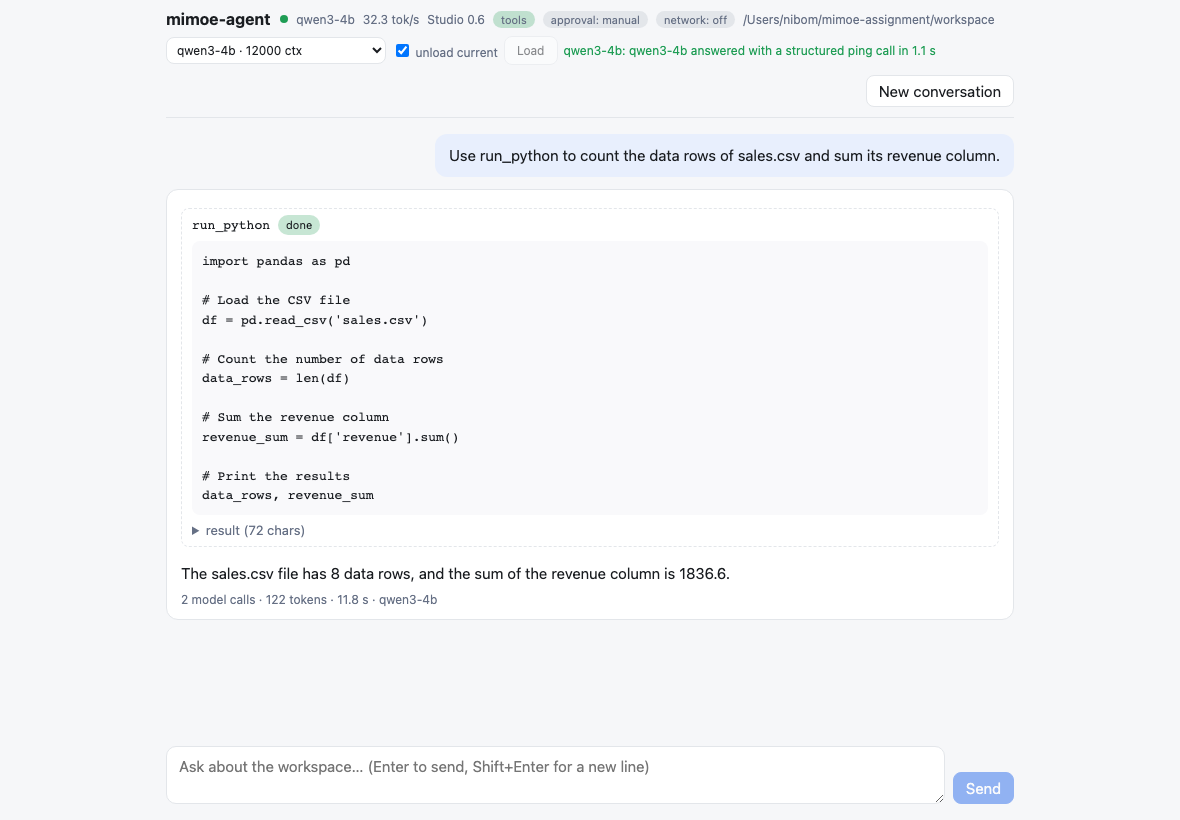
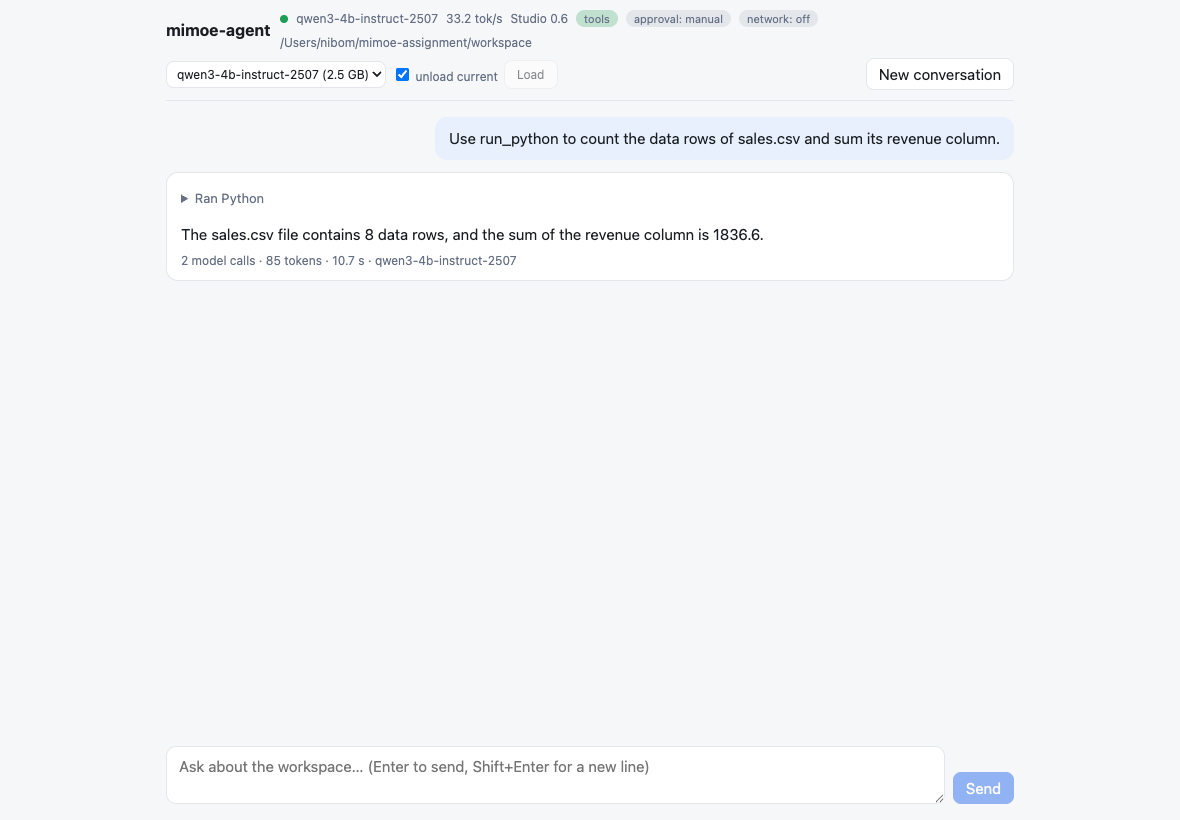
docs: screenshots and README text for the one-line tool steps and the arithmetic rule

diff --git a/README.md b/README.md
@@ -33,7 +33,9 @@ list), the agent's own tools never open a network connection, and the web server
 
 ![run_python asks for approval before the code runs](docs/img/web-approval-panel.png)
 
-![After Approve: the tool result, the answer and the stats for the turn](docs/img/web-approved-answer.png)
+![After Approve: the tool call as one line (click it for the code and its output), the answer and the stats for the turn](docs/img/web-approved-answer.png)
+
+![A failed tool call is one line too: the calculator refused a loop, so the agent ran Python instead and answered](docs/img/web-failed-step.png)
 
 ## Quickstart
 
@@ -128,7 +130,8 @@ and what is the total revenue?") qwen3-4b on a fresh session sometimes read the 
 call in every recorded run (CLI transcript 02, the browser session). It is also the prompt that
 shows the approval flow, which is the point of the demo.
 
-REPL commands: `/new` (fresh conversation), `/status`, `/verbose` (full tool results), `/model ID`
+REPL commands: `/new` (fresh conversation), `/status`, `/verbose` (full tool results, and the
+error of a failed call, which otherwise shows as one "failed, trying a different approach" line), `/model ID`
 (switch model), `/models`, `/help`, `/quit`. Ctrl-C during a turn cancels it at once (the answer
 stops and a running snippet is killed) and keeps the session. `--think` turns the model's reasoning
 on and shows it collapsed.
@@ -196,7 +199,7 @@ Two lines of LangGraph vocabulary, since `create_agent` compiles to a LangGraph 
 | React + Vite + TypeScript with the built bundle committed in `web/dist` | The reviewer needs no Node.js; the UI is about 750 lines with no UI kit, and the reducer, SSE parser and stream consumer have vitest tests. | Streamlit or Gradio: fast to start, but the per-turn tool cards, the approval panel with one decision per request, Stop and resume did not fit their request/rerun model. |
 | uv | One command installs Python 3.13 and the locked dependencies on macOS, Windows and Linux; `uv run mimoe-agent` is the whole quickstart. | pip or poetry: pip needs a Python 3.13 and a venv first; poetry is one more tool to install. |
 | Plain `@tool` functions, with pandas available to `run_python` | Eight ordinary functions whose docstrings are the descriptions the model reads; pandas because the model reaches for it every time and gets CSVs right (my csv-module fallback miscounted the header row). | RAG, a vector store or SQLite: the workspace is small, `read_file`/`search_files`/`run_python` answer everything, and an index is more setup, more dependencies and one more thing that can be stale. |
-| An in-process fake engine for tests (`httpx.MockTransport` injected into ChatOpenAI and the engine client) | It reproduces the quirks of both engine generations (inline `<think>`, `reasoning_content`, `tool_0` ids, the error bodies, the model store), so 705 tests run on CI without Studio; four live tests sit behind `MIMOE_LIVE=1`. | Recorded cassettes (VCR-style): brittle against streaming chunk boundaries, awkward to script a tool call followed by an answer, and tied to one engine version. |
+| An in-process fake engine for tests (`httpx.MockTransport` injected into ChatOpenAI and the engine client) | It reproduces the quirks of both engine generations (inline `<think>`, `reasoning_content`, `tool_0` ids, the error bodies, the model store), so 707 tests run on CI without Studio; five live tests sit behind `MIMOE_LIVE=1`. | Recorded cassettes (VCR-style): brittle against streaming chunk boundaries, awkward to script a tool call followed by an answer, and tied to one engine version. |
 | Python 3.13 as the floor | The workspace jail uses `ntpath.isreserved` (new in 3.13) and `Path.is_junction` (3.12) for Windows; uv installs 3.13 anyway. | Supporting 3.10 to 3.12 with fallbacks: more code paths to test on Windows for no benefit to the reviewer. |
 
 ## How the components connect
@@ -248,9 +251,10 @@ What each module does, in reading order:
   `/no_think` on 0.6 engines, neutralises a malformed tool call), `GuardrailMiddleware` (caps every
   tool result at 8 KB, turns a tool exception into an error message the model can read, marks a
   result that reports a failure, such as `ERROR: ...` or a snippet that exited non-zero, as failed
-  so both interfaces show it in red, shortens tool results from earlier turns to 400 characters in
-  the request only, resets the per-turn budget), `ModelCallLimitMiddleware(thread_limit=8)`, and `HumanInTheLoopMiddleware` on
-  `run_python` (omitted with `--auto-approve`).
+  so both interfaces can say so in one line while the model reads the error, shortens tool results
+  from earlier turns to 400 characters in the request only, resets the per-turn budget),
+  `ModelCallLimitMiddleware(thread_limit=8)`, and `HumanInTheLoopMiddleware` on `run_python`
+  (omitted with `--auto-approve`).
 - `stream.py`: drives `agent.stream(..., stream_mode=["messages", "updates"])` and maps what
   LangGraph yields to neutral event dicts. Both clients use it, so the CLI and the web UI cannot
   drift apart. It also splits thinking from answer text in both transports (inline tags on 0.6,
@@ -550,10 +554,10 @@ hint is on stderr), 130 for Ctrl-C at the prompt. Piped input works
 
 ```bash
 uv sync                                   # dependencies plus the dev group
-uv run pytest -q                          # 705 offline tests against the fake engine, no Studio needed
-MIMOE_LIVE=1 uv run pytest -m live        # 4 live tests against a running Studio (a handful of completions)
+uv run pytest -q                          # 707 offline tests against the fake engine, no Studio needed
+MIMOE_LIVE=1 uv run pytest -m live        # 5 live tests against a running Studio (a handful of completions)
 uvx ruff check . && uvx ruff format --check .
-cd web && npm ci && npm test && npm run build   # 29 vitest tests; the build writes web/dist
+cd web && npm ci && npm test && npm run build   # 35 vitest tests; the build writes web/dist
 ```
 
 The committed bundle: `web/dist` is in git so that reviewers do not need Node.js. After a UI change
@@ -601,6 +605,7 @@ Things the assistant got wrong that tests or reviews caught:
 | The approval prompt printed model-written code with raw terminal escapes, so a snippet could erase a line and show something other than what runs | The final review, reproduced with a hidden line that ran after approval. Output is escaped and the prompt warns in red |
 | The git tests inherited `GIT_DIR` and `GIT_INDEX_FILE`. A reviewing agent confirmed it by running the suite from a pre-commit hook in a linked worktree; each test commit fired the hook again, the processes multiplied and my laptop stopped responding until I forced a restart | Traced afterwards from the agents' transcripts. The tests and the git tool now drop inherited `GIT_*` variables, the git tool runs no repository hooks or filters, `run_python` got its 2 GB memory cap, and the remaining agents ran under explicit resource rules |
 | A calculator error that named the refused syntax (`unsupported syntax: GeneratorExp`) but not the tool to use instead, on a call the web UI showed as done because only exceptions counted as failures. Asked how many primes lie between 1000 and 4500, qwen3-4b-instruct-2507 sent the same expression again and then answered 543 "after checking known prime distribution data" (there are 442) | My own session in the web UI, then replayed from the engine log with the exact messages: with the old error the model resent the call in 3 of 3 runs, with an error that names `run_python` it switched to `run_python` in 3 of 3. The calculator's description now says what it cannot run, its errors point to `run_python`, a result that reports a failure shows as failed in both interfaces, and a live test replays the step |
+| A system-prompt rule, "Only state numbers that appear in a tool result", that qwen3-4b-instruct-2507 did not take as a reason to call a tool. Asked for the sum of the multiples of 5 between 432 and 43229, it worked the series out in text and answered 186,000,000 (the sum is 186,842,970) | My own session, then first-step replays of about twenty questions under five prompt wordings: with the old rule the model did 6 of 8 number questions in its head, four of them wrong. The rule now says never to do arithmetic in your head and names `calculator` and `run_python`: 7 of 8 go to a tool, questions about facts and the workspace get the same tools as before, and a live test replays the question. A longer rule that listed sums, averages and percentages did worse (4 of 10) |
 
 Every design decision described above was mine to approve: the assistant proposed, I chose, and
 a diff I could not explain did not go in.
@@ -622,7 +627,9 @@ a diff I could not explain did not go in.
   prompt sometimes searches `*.md` only. The model also declines code it expects to run long or
   use a lot of memory, because the tool description tells it about the 30 s and 2 GB limits, and
   now and then it sends code with literal `\n` escapes instead of line breaks; the tool answers
-  that with a specific error so the model resends it properly.
+  that with a specific error so the model resends it properly. Small arithmetic, such as the
+  average of five numbers or a bill split three ways, is still sometimes answered without a tool
+  (correctly, in my runs); larger and multi-step calculations go to `calculator` or `run_python`.
 - Cancelling a turn closes the model stream, but Studio 0.6.5 has no cancel and keeps generating
   the abandoned answer for a moment, so the next prompt can wait a few seconds.
 - Single-user loopback server: no authentication, per-thread locks kept for the process lifetime,

diff --git a/docs/transcripts/web-session.md b/docs/transcripts/web-session.md
@@ -1,5 +1,10 @@
 # Web UI session against the real server (D3)
 
+> Later change (2026-09-25): tool calls now show as one muted line each ("Read notes.md",
+> "Calculating failed, trying a different approach"), with the arguments and the result one click
+> away, instead of the cards with status chips described below. The SSE frames and the server
+> behaviour recorded here are unchanged.
+
 Date: 2026-09-25. Engine: mimOE Studio 0.6.5 at `http://localhost:8083/mimik-ai/openai/v1`
 (engine v3.22.8 developer edition, node MacBookPro.lan) with `qwen3-4b` loaded; thinking off, `max_tokens`
 at the app default, no downloads. The 1.0.27 runtime on 8093 stayed empty and untouched.
